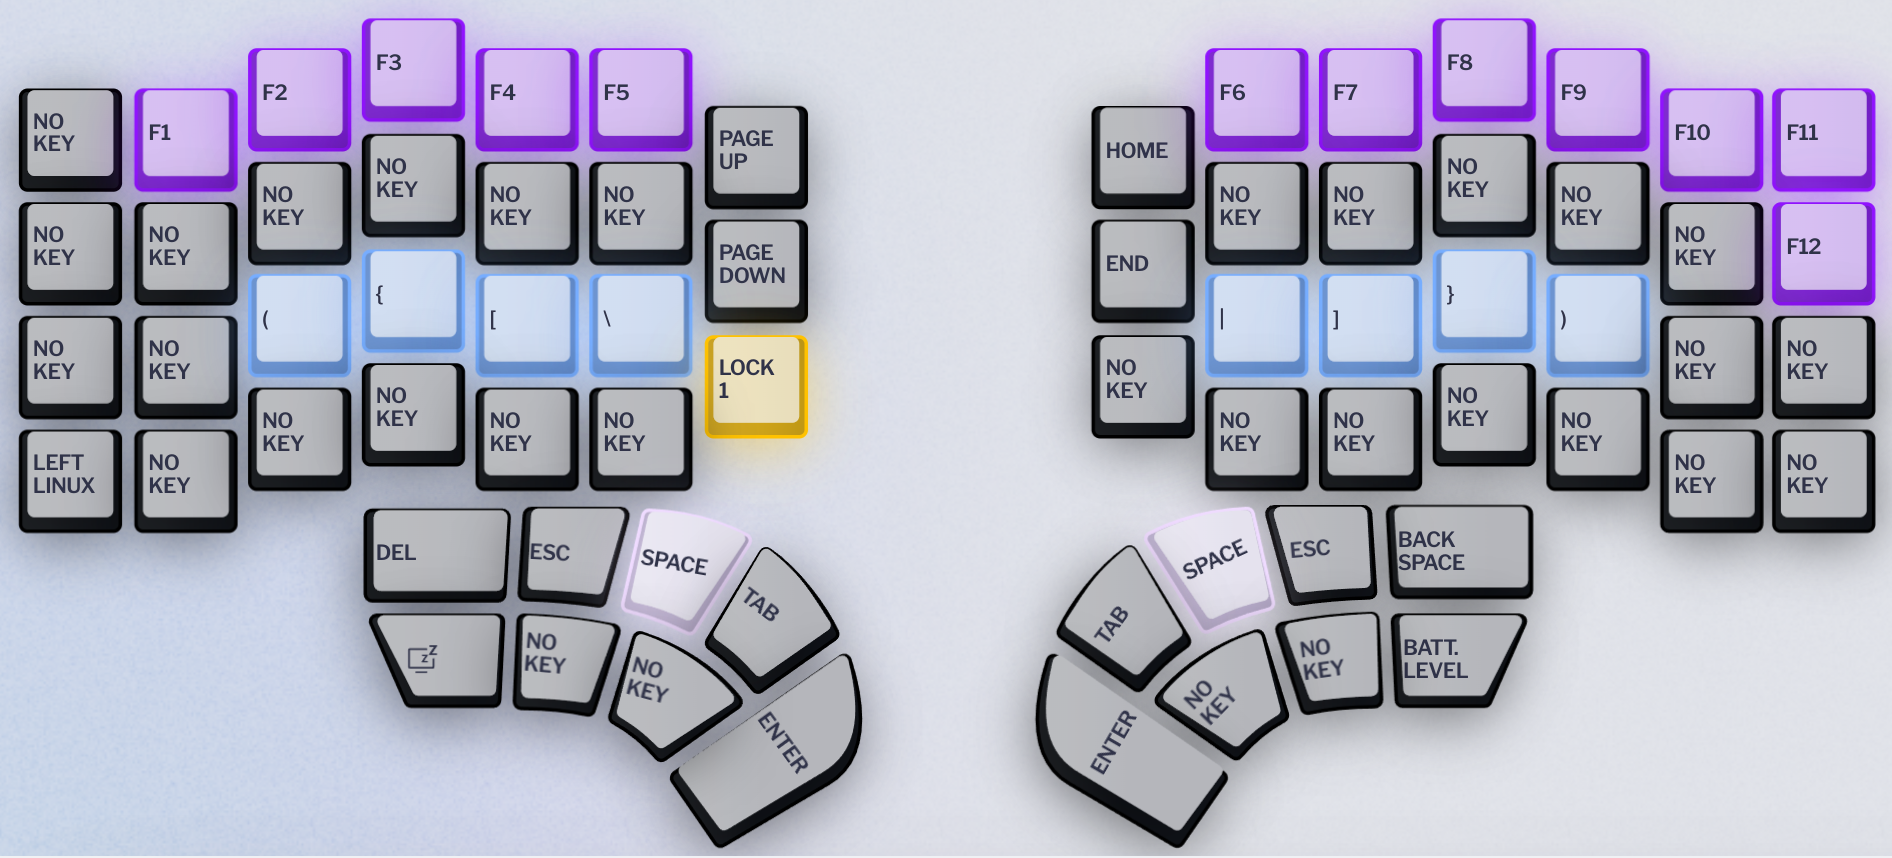
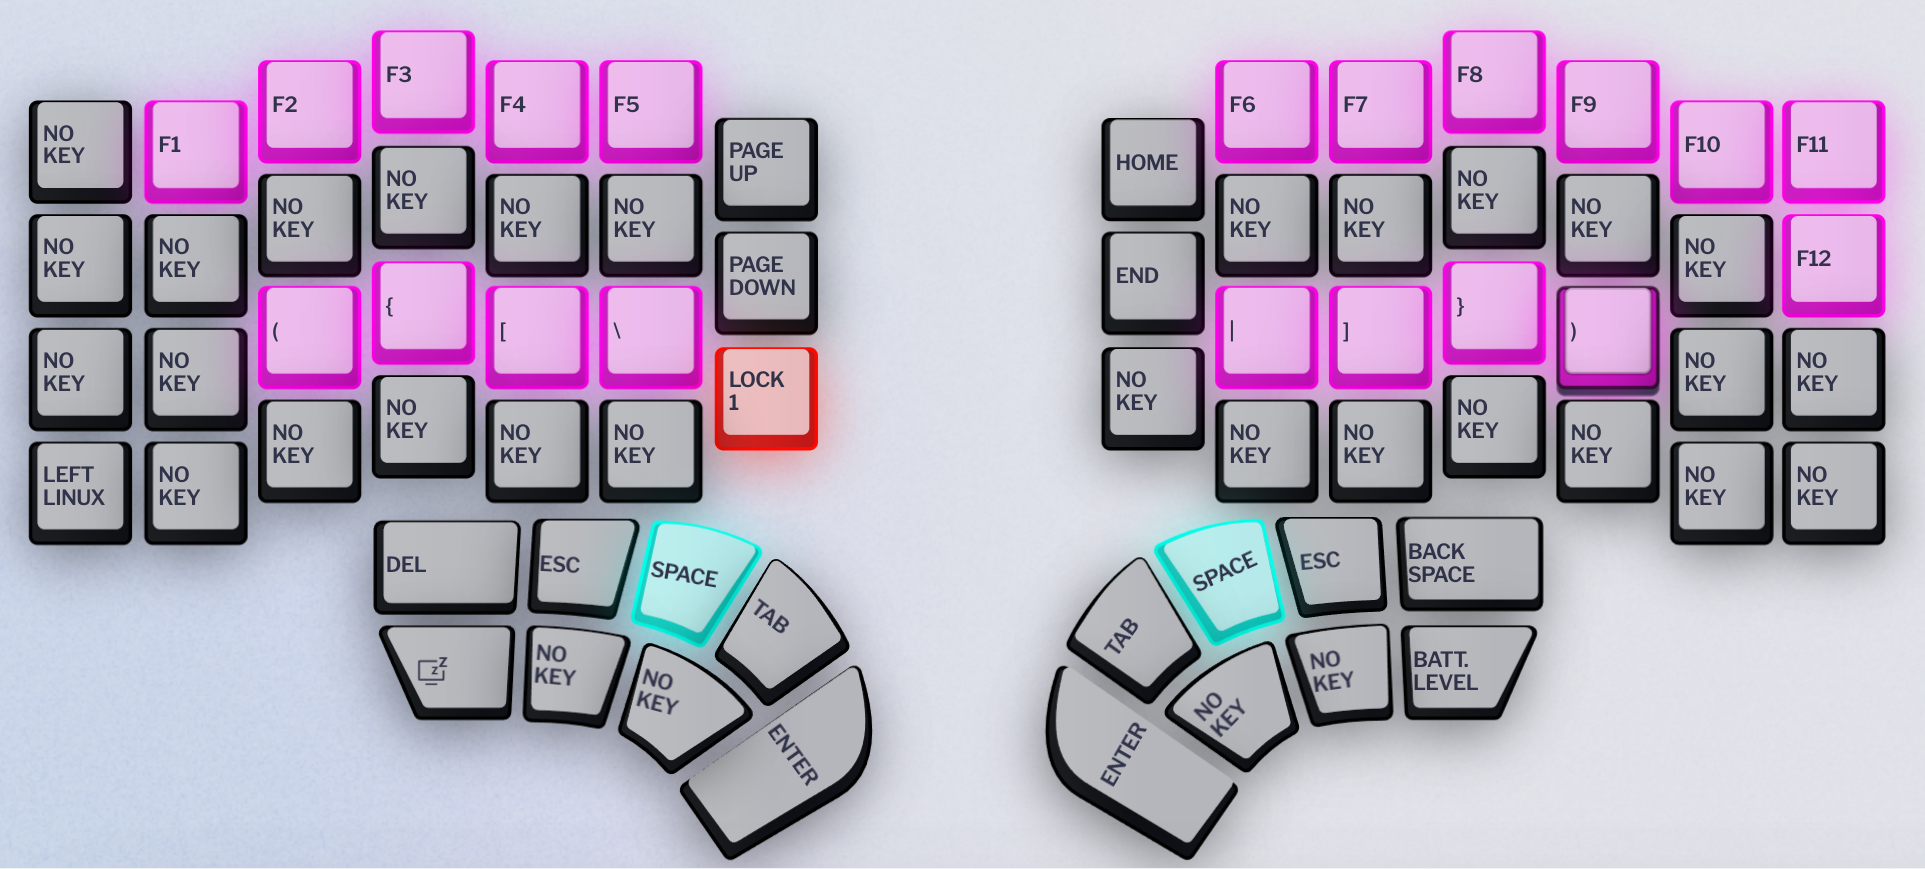
update colors

diff --git a/CHANGELOG.md b/CHANGELOG.md
@@ -1,0 +1,3 @@
+# 1.1.0
+- Remove colors in the first layer to maximize battery life.
+- Change colors to maximize visibility on low intensity config.

diff --git a/README.md b/README.md
@@ -1,5 +1,4 @@
 # Dygma Defy layers
-version: 1.0.0
 
 Layers defined for the keyboard Dygma Defy for my own use.
 
